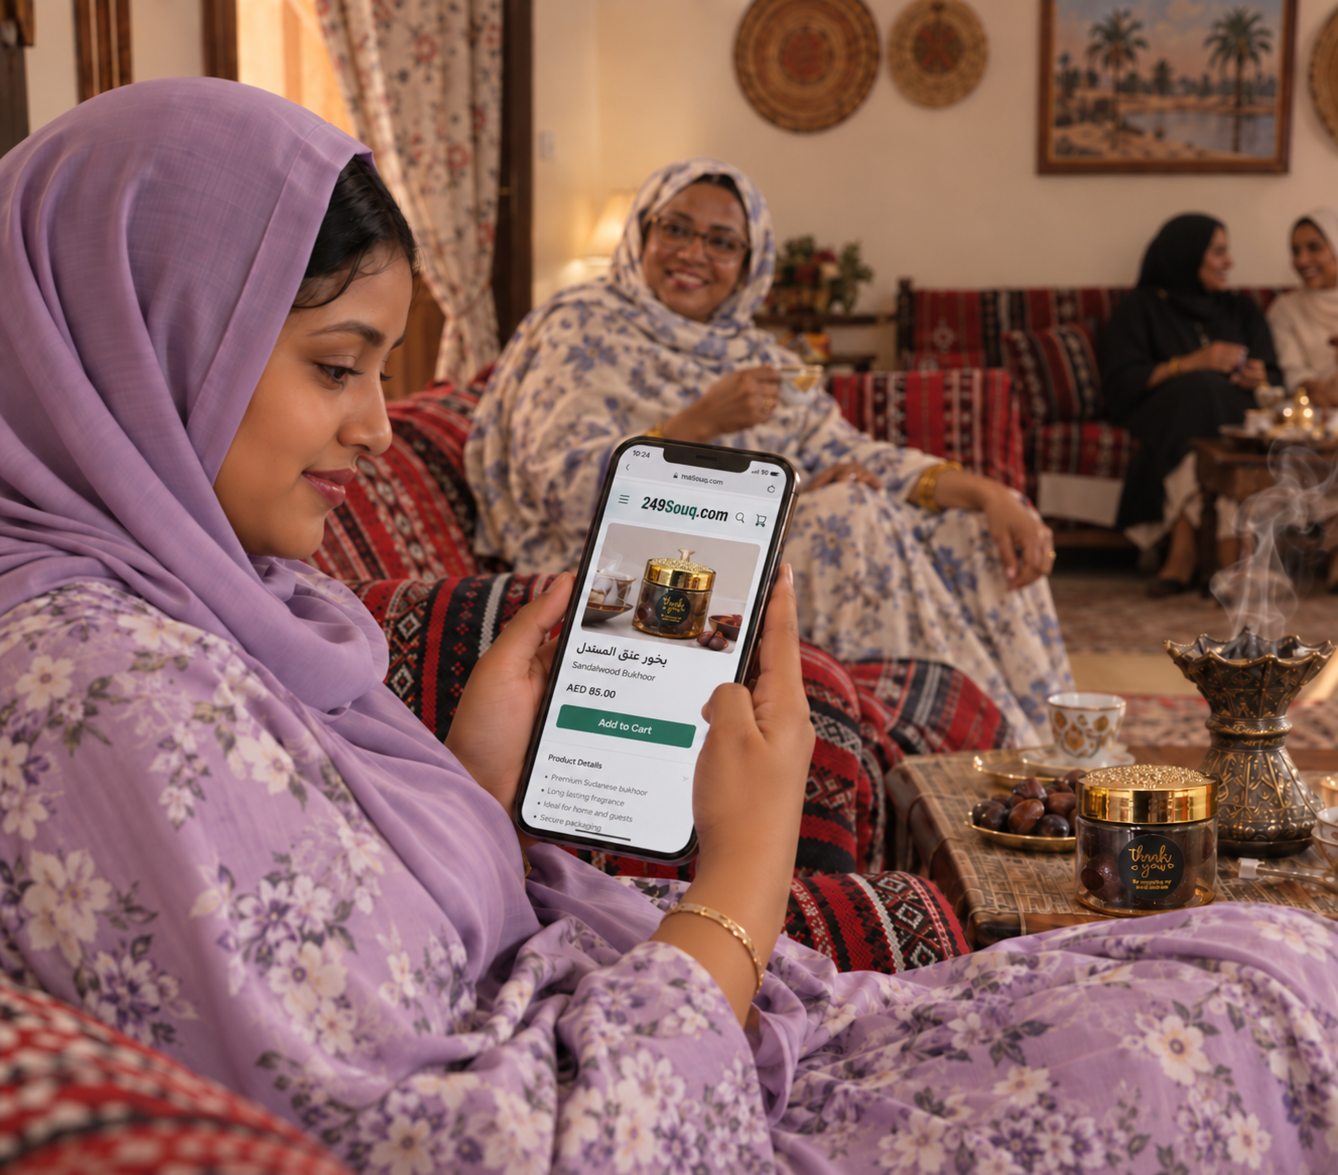
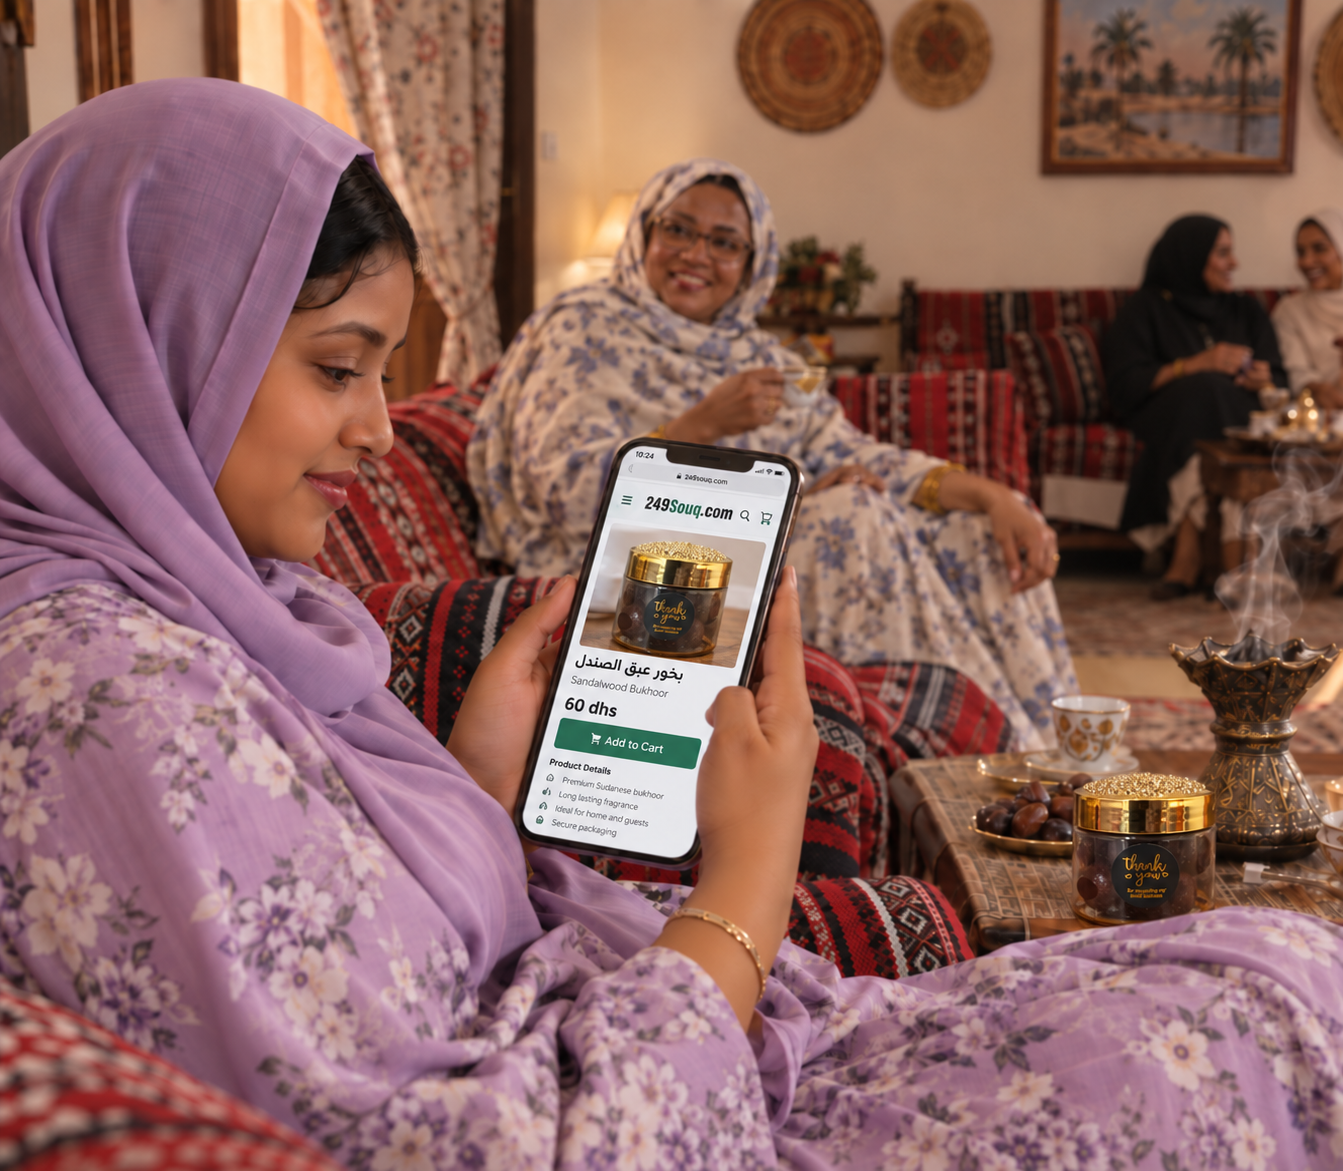
change style

diff --git a/products.html b/products.html
@@ -27,25 +27,25 @@
 .maker-avatar{width:40px;height:40px;border-radius:50%;background:var(--gold);display:flex;align-items:center;justify-content:center;font-size:18px;flex-shrink:0}
 .maker-badge{margin-right:auto;background:rgba(184,150,80,0.15);color:var(--gold);font-size:10px;font-weight:700;padding:3px 10px;border-radius:20px;border:1px solid rgba(184,150,80,0.3)}
 .price-row{display:flex;align-items:center;gap:12px;margin-bottom:1.5rem;flex-wrap:wrap}
-.price-main{font-size:2.2rem;font-weight:900;color:var(--gold)}
-.live-viewers{display:flex;align-items:center;gap:7px;font-size:12.5px;color:#bbb;margin:-.6rem 0 1.25rem}
+.price-main{font-size:2.2rem;font-weight:900;color:var(--gold-dark)}
+.live-viewers{display:flex;align-items:center;gap:7px;font-size:12.5px;color:var(--brown-mid);margin:-.6rem 0 1.25rem}
 .live-dot{width:8px;height:8px;border-radius:50%;background:#25D366;display:inline-block;flex-shrink:0;animation:livePulse 1.6s infinite}
 @keyframes livePulse{0%{box-shadow:0 0 0 0 rgba(37,211,102,.55)}70%{box-shadow:0 0 0 7px rgba(37,211,102,0)}100%{box-shadow:0 0 0 0 rgba(37,211,102,0)}}
-.tabby-pill{display:flex;align-items:center;gap:6px;background:rgba(255,255,255,0.06);border:1px solid rgba(255,255,255,0.1);border-radius:8px;padding:5px 12px;font-size:12px;color:#ccc}
+.tabby-pill{display:flex;align-items:center;gap:6px;background:rgba(4,106,56,0.06);border:1px solid rgba(4,106,56,0.22);border-radius:8px;padding:5px 12px;font-size:12px;color:var(--brown-mid)}
 .features{list-style:none;margin-bottom:1.75rem;display:flex;flex-direction:column;gap:.4rem}
-.features li{display:flex;align-items:center;gap:10px;font-size:14px;color:#ccc;padding:.5rem 0;border-bottom:1px solid rgba(255,255,255,0.05)}
+.features li{display:flex;align-items:center;gap:10px;font-size:14px;color:var(--brown-mid);padding:.5rem 0;border-bottom:1px solid rgba(26,18,8,0.08)}
 .features li:last-child{border:none}
-.feat-icon{color:var(--gold);font-size:16px;flex-shrink:0}
-.btn-order{background:var(--gold);color:var(--brown-deep);border:none;padding:15px;border-radius:10px;font-family:'Tajawal',sans-serif;font-size:17px;font-weight:800;cursor:pointer;width:100%;margin-bottom:.75rem;display:flex;align-items:center;justify-content:center;gap:8px;transition:background .2s}
-.btn-order:hover{background:var(--gold-light)}
-.btn-wa{background:transparent;color:var(--gold);border:1.5px solid var(--gold);padding:13px;border-radius:10px;font-family:'Tajawal',sans-serif;font-size:15px;font-weight:700;cursor:pointer;width:100%;display:flex;align-items:center;justify-content:center;gap:8px;transition:all .2s}
-.btn-wa:hover{background:rgba(184,150,80,0.1)}
-.btn-stripe{background:#fff;color:#1a1f36;border:1px solid rgba(255,255,255,0.1);padding:13px 16px;border-radius:10px;font-family:'Tajawal',sans-serif;font-size:15.5px;font-weight:700;cursor:pointer;width:100%;display:flex;align-items:center;justify-content:space-between;gap:10px;transition:transform .15s, box-shadow .15s;box-shadow:0 1px 2px rgba(0,0,0,0.15)}
-.btn-stripe:hover{transform:translateY(-1px);box-shadow:0 4px 12px rgba(0,0,0,0.25)}
+.feat-icon{color:var(--green);font-size:16px;flex-shrink:0}
+.btn-order{background:var(--green);color:#fff;border:none;padding:15px;border-radius:10px;font-family:'Tajawal',sans-serif;font-size:17px;font-weight:800;cursor:pointer;width:100%;margin-bottom:.75rem;display:flex;align-items:center;justify-content:center;gap:8px;transition:background .2s}
+.btn-order:hover{background:var(--green-dark)}
+.btn-wa{background:transparent;color:var(--green);border:1.5px solid var(--green);padding:13px;border-radius:10px;font-family:'Tajawal',sans-serif;font-size:15px;font-weight:700;cursor:pointer;width:100%;display:flex;align-items:center;justify-content:center;gap:8px;transition:all .2s}
+.btn-wa:hover{background:rgba(4,106,56,0.08)}
+.btn-stripe{background:#fff;color:#1a1f36;border:1px solid rgba(26,18,8,0.12);padding:13px 16px;border-radius:10px;font-family:'Tajawal',sans-serif;font-size:15.5px;font-weight:700;cursor:pointer;width:100%;display:flex;align-items:center;justify-content:space-between;gap:10px;transition:transform .15s, box-shadow .15s;box-shadow:0 1px 2px rgba(0,0,0,0.08)}
+.btn-stripe:hover{transform:translateY(-1px);box-shadow:0 4px 12px rgba(0,0,0,0.14)}
 .card-icons{display:flex;align-items:center;gap:6px}
 .card-icons svg{display:block}
-.secure-caption{text-align:center;font-size:11px;color:rgba(255,255,255,0.45);margin:.45rem 0 .85rem;display:flex;align-items:center;justify-content:center;gap:5px}
-.secure-caption b{color:#a89bff;font-weight:700}
+.secure-caption{text-align:center;font-size:11px;color:var(--brown-mid);margin:.45rem 0 .85rem;display:flex;align-items:center;justify-content:center;gap:5px}
+.secure-caption b{color:var(--green-dark);font-weight:700}
 .btn-tabby{background:#EAFBF6;color:#0B4F45;border:1px solid #BEEFE0;padding:12px 16px;border-radius:10px;font-family:'Tajawal',sans-serif;font-size:14.5px;font-weight:600;cursor:pointer;width:100%;margin-bottom:.75rem;display:flex;align-items:center;justify-content:space-between;gap:8px;transition:all .15s}
 .btn-tabby:hover{background:#DCF8F0;box-shadow:0 2px 8px rgba(0,184,153,0.15)}
 .tabby-left{display:flex;align-items:center;gap:8px}
@@ -136,7 +136,7 @@
 
 <div class="divider"></div>
 
-<section style="background:var(--brown-deep);padding:3rem 0">
+<section style="background:#fff;padding:3rem 0;border-bottom:1px solid rgba(26,18,8,0.06)">
   <div class="product-wrap">
     <!-- GALLERY -->
     <div class="gallery">
@@ -152,18 +152,20 @@
       <div class="maker-row">
         <div class="maker-avatar">🧕</div>
         <div>
-          <div style="font-size:11px;color:#888">الصانعة</div>
-          <div style="font-size:13px;font-weight:700;color:var(--gold-light)">صانعة سودانية معتمدة</div>
+          <div style="font-size:11px;color:var(--brown-mid)">الصانعة</div>
+          <div style="font-size:13px;font-weight:700;color:var(--gold-dark)">صانعة سودانية معتمدة</div>
         </div>
         <div class="maker-badge">✦ موثّقة</div>
       </div>
 
-      <h1 style="font-size:clamp(1.5rem,3.5vw,2.2rem);font-weight:900;color:#fff;margin-bottom:.4rem;line-height:1.3">بخور عبق الصندل</h1>
-      <p style="font-size:14px;color:#999;margin-bottom:1.5rem">ريحة فخمة... تدوم وتملأ المكان</p>
+      <h1 style="font-size:clamp(1.5rem,3.5vw,2.2rem);font-weight:900;color:var(--brown-deep);margin-bottom:.4rem;line-height:1.3">بخور عبق الصندل</h1>
+      <p style="font-size:14px;color:var(--brown-mid);margin-bottom:1.5rem">ريحة فخمة... تدوم وتملأ المكان</p>
+
+      <a href="#reviews" style="display:flex;align-items:center;gap:8px;margin-bottom:1.25rem;text-decoration:none;color:var(--gold-dark);font-size:14px;letter-spacing:1px">★★★★★ <span style="color:var(--brown-mid);letter-spacing:normal">آراء عملائنا الحقيقية</span></a>
 
       <div class="price-row">
-        <div style="font-size:1rem;color:#aaa;font-weight:500">AED <span class="price-main">60</span></div>
-        <div class="tabby-pill">أو <strong style="color:#fff;margin:0 4px">4 × 15 AED</strong> بدون فوائد مع Tabby</div>
+        <div style="font-size:1rem;color:var(--brown-mid);font-weight:500">AED <span class="price-main">60</span></div>
+        <div class="tabby-pill">أو <strong style="color:var(--brown-deep);margin:0 4px">4 × 15 AED</strong> بدون فوائد مع Tabby</div>
       </div>
 
       <div class="live-viewers"><span class="live-dot"></span><span id="liveViewerCount">7</span> شخص يشاهدون هذا المنتج الآن</div>
@@ -243,7 +245,7 @@
 <div class="divider"></div>
 
 <!-- REVIEWS -->
-<section class="reviews-section">
+<section class="reviews-section" id="reviews">
   <div class="reviews-inner">
     <span class="section-tag" style="text-align:center;display:block">آراء عملائنا</span>
     <div class="reviews-title">شهادات حقيقية من عملاء 249Souq</div>

diff --git a/style.css b/style.css
@@ -28,10 +28,10 @@ nav{background:#fff;padding:0 2rem;display:flex;align-items:center;justify-conte
 .logo-text{font-size:22px;font-weight:900;text-decoration:none;line-height:1.1}
 .logo-text .lg-n{color:var(--green)}
 .logo-text .lg-s{color:var(--flag-red)}
-.logo-sub{font-size:10px;color:#999;line-height:1}
+.logo-sub{font-size:10px;color:var(--brown-deep);line-height:1}
 .nav-links{display:flex;gap:1.5rem;list-style:none;align-items:center}
-.nav-links a{color:var(--brown-mid);text-decoration:none;font-size:14px;font-weight:600;transition:color .2s}
-.nav-links a:hover,.nav-links a.active{color:var(--gold-dark)}
+.nav-links a{color:var(--green);text-decoration:none;font-size:14px;font-weight:600;transition:color .2s}
+.nav-links a:hover,.nav-links a.active{color:var(--green-dark)}
 .nav-icon-btn{background:none;border:none;color:var(--brown-mid);font-size:19px;cursor:pointer;padding:4px;display:flex;align-items:center;transition:color .2s}
 .nav-icon-btn:hover{color:var(--gold-dark)}
 .nav-cta{background:var(--green);color:#fff;border:none;padding:8px 20px;border-radius:6px;font-family:'Tajawal',sans-serif;font-size:14px;font-weight:700;cursor:pointer;transition:background .2s}
@@ -113,7 +113,7 @@ footer::before{content:'';position:absolute;top:0;left:0;right:0;height:4px;back
 
 
 /* ── HERITAGE STEP BADGE (double gold/maroon ring, used for numbered process icons) ── */
-.step-badge{width:76px;height:76px;border-radius:50%;border:2px solid var(--gold);box-shadow:0 0 0 3px var(--cream-dark),0 0 0 4px var(--maroon-light);background:var(--cream-dark);display:flex;align-items:center;justify-content:center;font-size:28px;color:var(--gold-dark)}
+.step-badge{width:76px;height:76px;border-radius:50%;border:2px solid var(--gold);box-shadow:0 0 0 3px var(--cream-dark),0 0 0 4px var(--maroon-light);background:var(--cream-dark);display:flex;align-items:center;justify-content:center;font-size:28px;color:var(--brown-deep)}
 .step-num{position:absolute;top:-6px;right:-6px;width:22px;height:22px;background:var(--maroon);border:1.5px solid var(--gold-light);border-radius:50%;color:#fff;font-size:11px;font-weight:900;display:flex;align-items:center;justify-content:center}
 
 /* ── HERITAGE CATEGORY ICON RING (for product category icons) ── */

diff --git a/index.html b/index.html
@@ -67,7 +67,7 @@
     <p style="font-size:1rem;color:var(--gold-light);font-style:italic;font-weight:600;margin-bottom:2.5rem;opacity:.85">طعم البيت، وين ما مشيت</p>
     <div style="display:flex;gap:1rem;justify-content:center;flex-wrap:wrap;margin-bottom:3rem">
       <button class="btn-primary" onclick="window.location.href='products.html'"><i class="ti ti-shopping-bag"></i> تسوق الآن</button>
-      <button class="btn-outline" onclick="window.location.href='sellers.html'">انضم كبائع</button>
+      <button class="btn-primary" onclick="window.location.href='sellers.html'">انضم كبائع</button>
     </div>
     <div style="display:flex;gap:2.5rem;justify-content:center;flex-wrap:wrap;padding-top:2rem;border-top:1px solid rgba(255,255,255,0.07)">
       <div style="display:flex;align-items:center;gap:8px;color:#888;font-size:13px"><i class="ti ti-shield-check" style="color:var(--gold);font-size:18px"></i>دفع آمن وموثوق</div>
